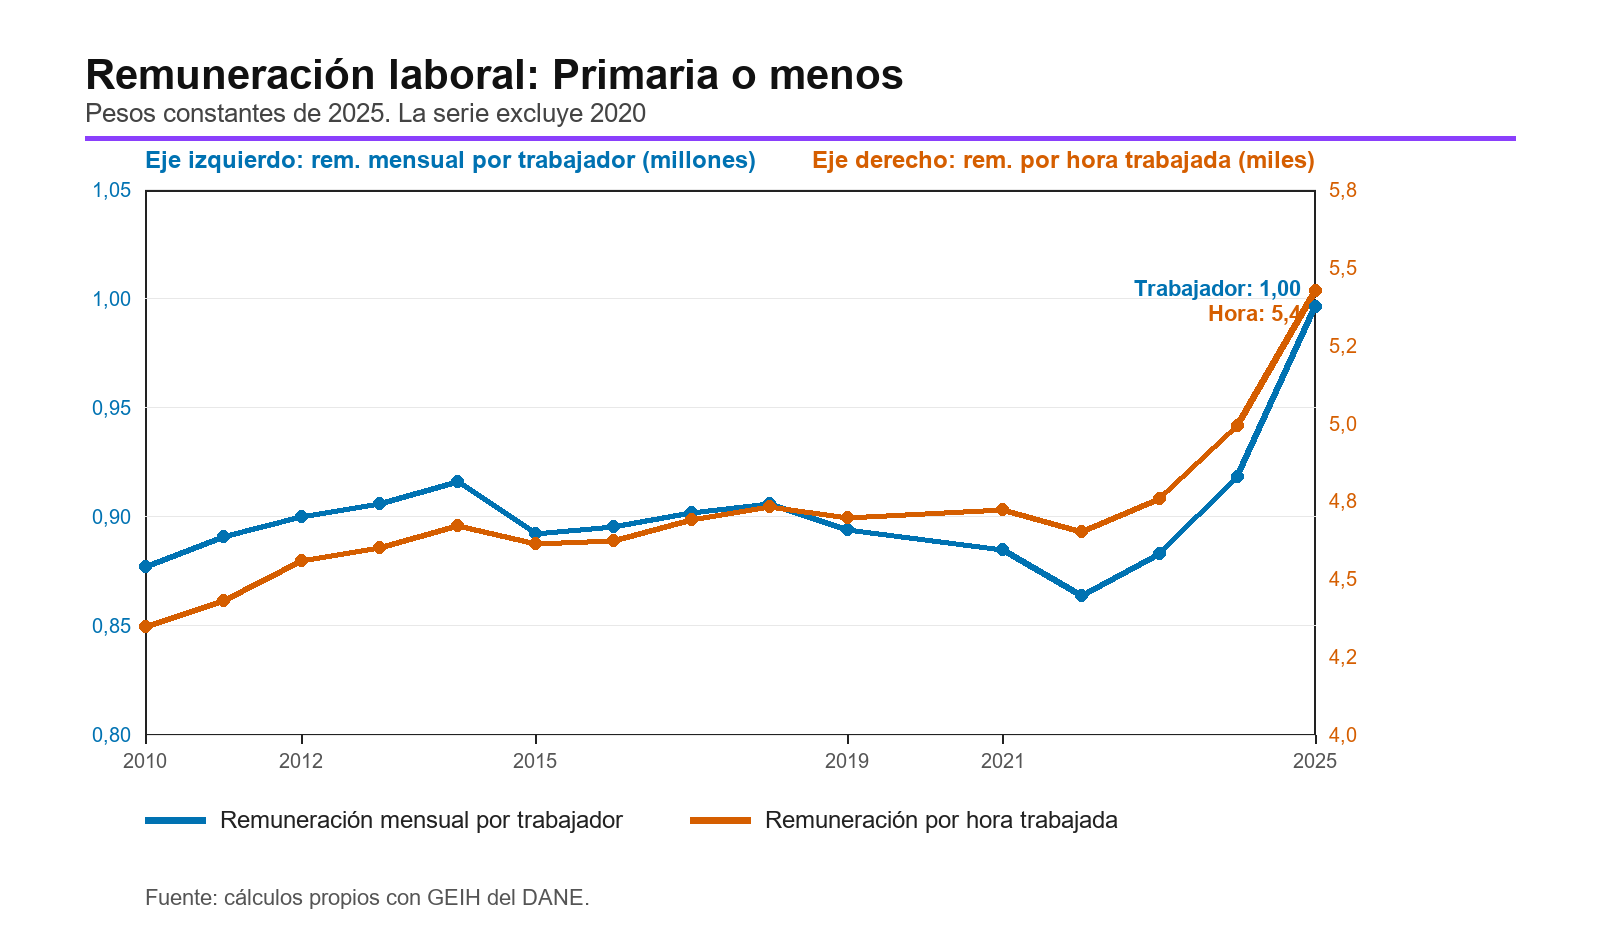
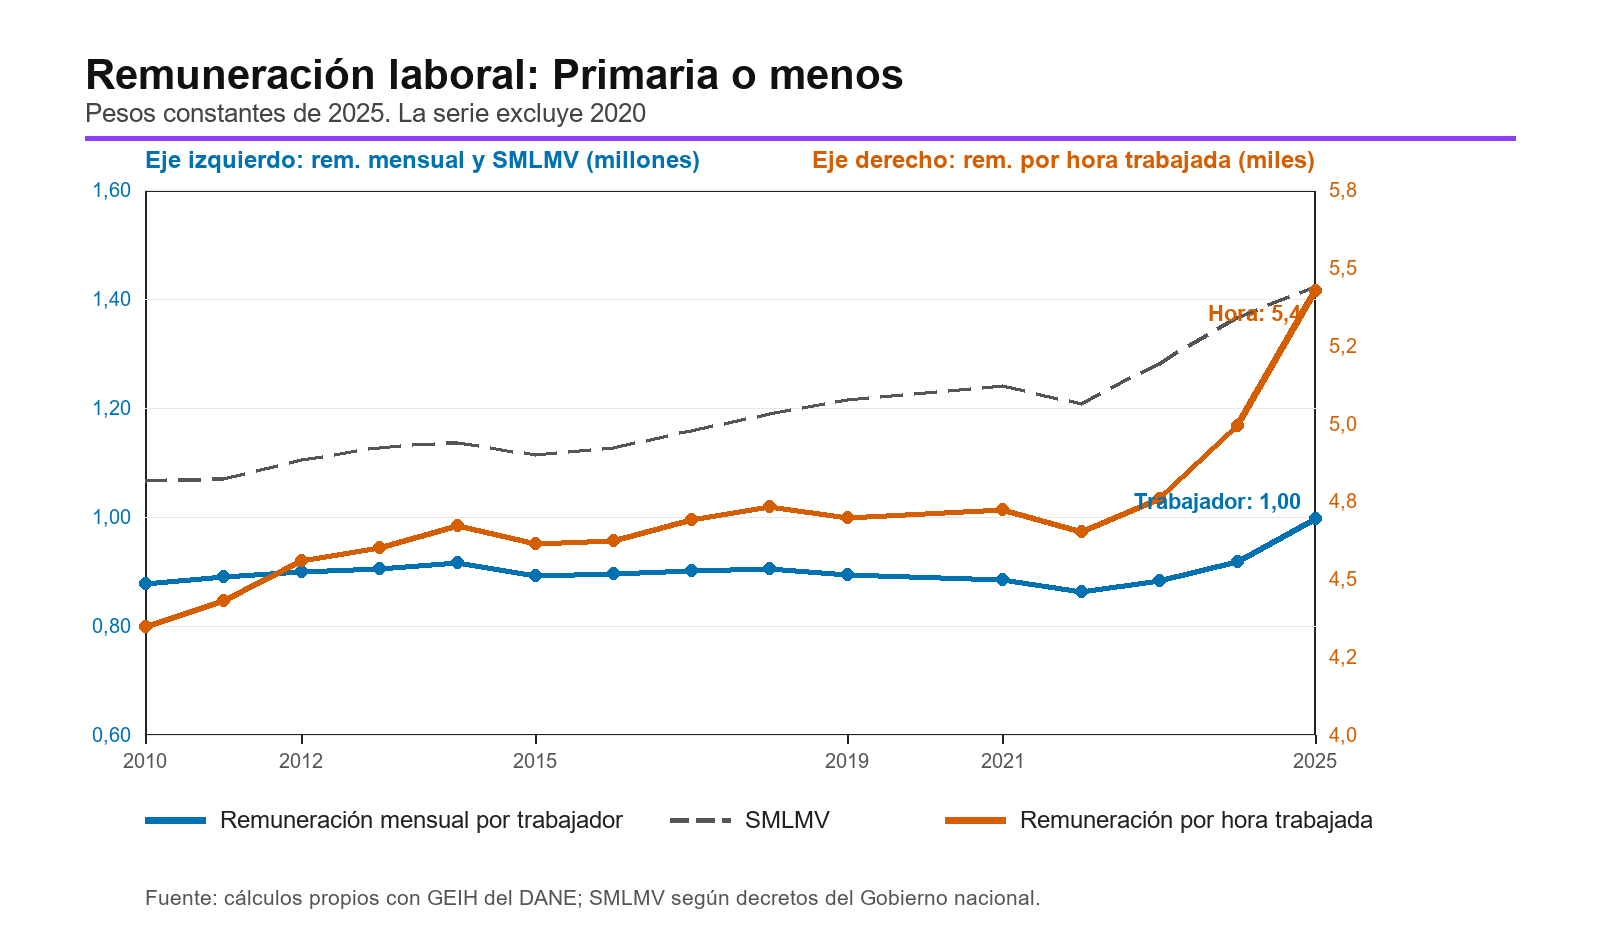
Add SMLMV to monthly remuneration series

diff --git a/Paper/sections/CuerpoInformeRemuneracionEducacionGEIH.tex b/Paper/sections/CuerpoInformeRemuneracionEducacionGEIH.tex
@@ -4,7 +4,7 @@
 
 \textbf{El objetivo de este informe es medir cómo ha evolucionado la remuneración laboral por logro educativo entre 2010 y 2025.} Con este fin se clasifican las personas ocupadas según su logro educativo reportado en la Gran Encuesta Integrada de Hogares (GEIH). La encuesta permite identificar si los trabajadores tienen educación primaria o menos, educación secundaria, o educación universitaria o superior. Para cada una de estas tres categorías se estudia la evolución de la remuneración mensual por trabajador y la remuneración por hora trabajada.
 
-\textbf{La remuneración se usa como una aproximación, no como una medición directa, de la productividad marginal del trabajo.} La productividad marginal del trabajo es el valor adicional que genera una empresa cuando emplea una unidad adicional de trabajo. En un mercado laboral competitivo, sin asimetrías de información y con remuneraciones flexibles, la contratación tiende a ocurrir hasta el punto en que el costo de una hora adicional de trabajo se iguala con el valor de lo que esa hora produce. Bajo esas condiciones, la remuneración por hora corresponde al producto marginal del trabajo. En la práctica, la remuneración también refleja el poder de negociación de empleadores y empleados, inflexibilidades como el salario mínimo, esquemas de incentivos y fricciones en la búsqueda de empleos y trabajadores. Por lo tanto, los resultados sobre variaciones en la remuneración laboral como síntoma de aumentos en la productividad deben leerse con cautela. Esto es especialmente importante después de la pandemia, cuando los aumentos en la remuneración laboral coinciden con incrementos importantes del salario mínimo.
+\textbf{La remuneración se usa como una aproximación, no como una medición directa, de la productividad marginal del trabajo.} La productividad marginal del trabajo es el valor adicional que genera una empresa cuando emplea una unidad adicional de trabajo. En un mercado laboral competitivo, sin asimetrías de información y con remuneraciones flexibles, la contratación tiende a ocurrir hasta el punto en que el costo de una hora adicional de trabajo se iguala con el valor de lo que esa hora produce. Bajo esas condiciones, la remuneración por hora corresponde al producto marginal del trabajo. En la práctica, la remuneración también refleja el poder de negociación de empleadores y empleados, inflexibilidades como el salario mínimo, esquemas de incentivos y fricciones en la búsqueda de empleos y trabajadores. Por lo tanto, los resultados sobre variaciones en la remuneración laboral como síntoma de aumentos en la productividad deben leerse con cautela. Esto es especialmente relevante después de la pandemia, cuando los aumentos en la remuneración laboral coinciden con incrementos importantes del salario mínimo.
 
 
 \textbf{Desde 2021, la pregunta educativa permite mirar credenciales más desagregadas.} La serie larga requiere agrupar el logro educativo en tres categorías comparables, pero en los años recientes la GEIH permite distinguir credenciales que van desde preescolar o ninguno hasta doctorado. Esa apertura no reemplaza la comparación 2010--2025; la complementa al mostrar diferencias internas entre educación media, formación técnica y tecnológica, educación universitaria y posgrados.
@@ -92,7 +92,7 @@ El primer término mide cuánto cambia la remuneración promedio por variaciones
   \includegraphics[width=0.96\textwidth]{Paper/figures/fig_remuneracion_educacion_primaria_o_menos_series.png}
   \caption{Evolución de la remuneración laboral para Primaria o menos, 2010--2025}
   \label{fig:remuneracion_educacion_primaria_o_menos_series}
-  \caption*{\footnotesize Nota: el eje izquierdo muestra la remuneración mensual por trabajador en millones de pesos mensuales de 2025; el eje derecho muestra la remuneración por hora trabajada en miles de pesos de 2025. La serie excluye 2020. Fuente: cálculos propios con GEIH del DANE.}
+  \caption*{\footnotesize Nota: el eje izquierdo muestra la remuneración mensual por trabajador y el SMLMV, ambos en millones de pesos mensuales de 2025; el eje derecho muestra la remuneración por hora trabajada en miles de pesos de 2025. El SMLMV no incluye auxilio de transporte. La serie excluye 2020. Fuente: cálculos propios con GEIH del DANE y decretos del Gobierno nacional para SMLMV.}
 \end{figure}
 
 \textbf{Secundaria: un grupo grande con incrementos graduales.} La Figura \ref{fig:remuneracion_educacion_secundaria_series} añade la trayectoria anual a los cortes del Cuadro \ref{tab:remuneracion_educacion_remuneracion}. La remuneración mensual por trabajador pasó de 1,20 a 1,34 millones de pesos mensuales de 2025, con crecimiento anual de 0,78\%; la remuneración por hora pasó de 5,7 a 6,9 miles de pesos de 2025, con crecimiento anual de 1,31\%. Por su tamaño dentro del empleo, los movimientos de este grupo inciden en la remuneración agregada, aun cuando sus cambios de nivel sean graduales.
@@ -102,7 +102,7 @@ El primer término mide cuánto cambia la remuneración promedio por variaciones
   \includegraphics[width=0.96\textwidth]{Paper/figures/fig_remuneracion_educacion_secundaria_series.png}
   \caption{Evolución de la remuneración laboral para Secundaria, 2010--2025}
   \label{fig:remuneracion_educacion_secundaria_series}
-  \caption*{\footnotesize Nota: el eje izquierdo muestra la remuneración mensual por trabajador en millones de pesos mensuales de 2025; el eje derecho muestra la remuneración por hora trabajada en miles de pesos de 2025. La serie excluye 2020. Fuente: cálculos propios con GEIH del DANE.}
+  \caption*{\footnotesize Nota: el eje izquierdo muestra la remuneración mensual por trabajador y el SMLMV, ambos en millones de pesos mensuales de 2025; el eje derecho muestra la remuneración por hora trabajada en miles de pesos de 2025. El SMLMV no incluye auxilio de transporte. La serie excluye 2020. Fuente: cálculos propios con GEIH del DANE y decretos del Gobierno nacional para SMLMV.}
 \end{figure}
 
 \textbf{Universitaria o superior: remuneraciones altas y crecimiento lento.} La Figura \ref{fig:remuneracion_educacion_superior_series} añade la trayectoria anual a los cortes del Cuadro \ref{tab:remuneracion_educacion_remuneracion}. La remuneración mensual por trabajador pasó de 3,08 a 3,23 millones de pesos mensuales de 2025, con crecimiento anual de 0,31\%; la remuneración por hora pasó de 15,9 a 17,2 miles de pesos de 2025, con crecimiento anual de 0,50\%. Este es el grupo con mayores remuneraciones, pero también el que tuvo el menor crecimiento anual en la comparación larga.
@@ -114,7 +114,7 @@ En este grupo, el promedio de 2010--2025 oculta dos tramos distintos: entre 2010
   \includegraphics[width=0.96\textwidth]{Paper/figures/fig_remuneracion_educacion_superior_series.png}
   \caption{Evolución de la remuneración laboral para Universitaria o superior, 2010--2025}
   \label{fig:remuneracion_educacion_superior_series}
-  \caption*{\footnotesize Nota: el eje izquierdo muestra la remuneración mensual por trabajador en millones de pesos mensuales de 2025; el eje derecho muestra la remuneración por hora trabajada en miles de pesos de 2025. La serie excluye 2020. Fuente: cálculos propios con GEIH del DANE.}
+  \caption*{\footnotesize Nota: el eje izquierdo muestra la remuneración mensual por trabajador y el SMLMV, ambos en millones de pesos mensuales de 2025; el eje derecho muestra la remuneración por hora trabajada en miles de pesos de 2025. El SMLMV no incluye auxilio de transporte. La serie excluye 2020. Fuente: cálculos propios con GEIH del DANE y decretos del Gobierno nacional para SMLMV.}
 \end{figure}
 
 \section{Desagregación de los logros educativos}\label{sec:categorias_detalladas}